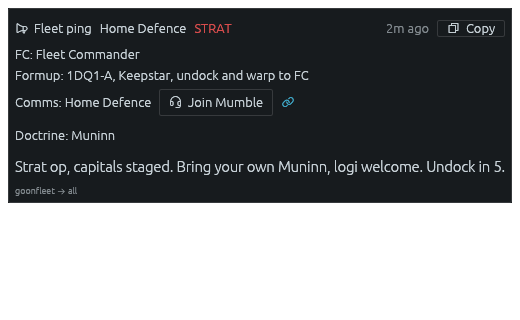
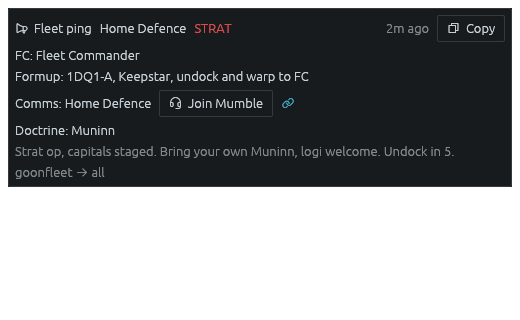
Revert the fleet ping description to its dimmer, smaller form
UI-003 made the fleet call body full brightness and a step larger, arguing an
urgent call should outrank its own metadata. That was wrong: the actionable
fields on a fleet card are FC, Formup, Comms and Doctrine, and the description
is context. Promoting it above them inverted the hierarchy rather than fixing
it.

The plain ping it was compared against has no metadata rows, so its body being
the strongest text there is correct. The two cards do not share an information
hierarchy, so the comparison was a false peer.

Back to render_ping_body(ui, description, true), the exact pre-UI-003 line. No
test asserted the brighter form; the suite stays at 476.

Changed region(s): [[0.0, 0.375, 0.9846, 0.6562], [0.0308, 0.2188, 0.6154, 0.375], [0.0308, 0.1562, 0.2769, 0.1875]]

diff --git a/app/src/app.rs b/app/src/app.rs
@@ -10342,11 +10342,12 @@ impl SpaiApp {
                 let band_color = [
                     egui::Color32::from_rgb(0x5A, 0xC8, 0x6A),
                     egui::Color32::from_rgb(0xE0, 0xA4, 0x3A),
+                    egui::Color32::from_rgb(0x4F, 0x9B, 0xD8),
                     egui::Color32::from_rgb(0xD8, 0x4C, 0x4C),
                 ];
                 if !schematic {
                     for (i, (name, ly)) in crate::map::JUMP_RANGES.iter().enumerate().rev() {
-                        let col = band_color.get(i).copied().unwrap_or(band_color[2]);
+                        let col = band_color.get(i).copied().unwrap_or(band_color[3]);
                         let r = crate::map::ly_to_pixels(*ly, &bounds, rect, self.map_zoom);
                         painter.circle_stroke(hp, r, egui::Stroke::new(1.5, col.gamma_multiply(0.85)));
                         painter.text(
@@ -10365,7 +10366,7 @@ impl SpaiApp {
                     }
                     let d = crate::map::ly_distance(real_h, &self.map_systems[i]);
                     if let Some(b) = crate::map::JUMP_RANGES.iter().position(|(_, ly)| d <= *ly) {
-                        let col = band_color.get(b).copied().unwrap_or(band_color[2]);
+                        let col = band_color.get(b).copied().unwrap_or(band_color[3]);
                         painter.circle_filled(pos[&s.id], dot + 4.0, col.gamma_multiply(0.70));
                     }
                 }
@@ -22072,14 +22073,7 @@ pub(crate) fn render_ping(
                     });
                 }
                 if !description.is_empty() {
-                    // The call text has to outrank the metadata labels above it, and the theme
-                    // paints `strong` in the same color as body text, so size is the only lever.
-                    ui.scope(|ui| {
-                        if let Some(f) = ui.style_mut().text_styles.get_mut(&egui::TextStyle::Body) {
-                            f.size += 1.5;
-                        }
-                        render_ping_body(ui, description, false);
-                    });
+                    render_ping_body(ui, description, true);
                 }
                 let from = source.as_deref().unwrap_or("?");
                 let to = target.as_deref().unwrap_or("?");

diff --git a/ui-tickets/UI-003-fleet-ping-body-contrast/review.md b/ui-tickets/UI-003-fleet-ping-body-contrast/review.md
@@ -103,3 +103,42 @@ normally, but a longer single-line description in a narrow window will now wrap 
 than before. Acceptable; noted in case a future ticket reports it.
 
 The ping card footer is still `.small()`, which is UI-008's scope, not this ticket's.
+
+---
+
+# Reverted by the user
+
+The user asked for the fleet description to go back to the darker, smaller form:
+`render_ping_body(ui, description, true)`, weak and with no size bump. Done, and it is the exact
+pre-UI-003 line, taken from `8931ab3^`.
+
+## Why the original reasoning was wrong
+
+This ticket argued that the fleet call body should outrank its metadata, because a fleet call is
+operationally urgent and a routine plain ping is not. The measurement behind it was real: the fleet
+body rendered at about 4.9:1 while the plain ping's rendered at about 11:1.
+
+What the reasoning missed is that **the fleet card's description is not the part a pilot acts on**.
+The actionable fields are FC, Formup, Comms and Doctrine, which are the metadata rows this change
+promoted the description above. The description is context. Making it the loudest thing on the card
+inverted the real hierarchy rather than fixing it, which is the opposite of what the ticket claimed.
+
+The plain ping comparison was also a false peer. A plain ping has no metadata rows at all, so its
+body IS its content and being the strongest text on that card is correct. Comparing the two bodies
+across card types looked like an inconsistency and was not one.
+
+## What stands
+
+No test asserted the brighter or larger form, so the full suite stayed green at 476 through the
+revert. The `weak` parameter on `render_ping_body` is used again, so UI-018's note that only `false`
+reached it from production code no longer holds.
+
+UI-013's doctrine-row fix and UI-018's body-row fix are untouched: those were about row height
+allocating 26px for 15px of ink, not about colour or size.
+
+## Lesson
+
+A contrast measurement can be correct and the conclusion drawn from it still wrong. This one
+compared two bodies and concluded the dimmer was a bug, without asking whether the two cards have
+the same information hierarchy. They do not. The person who reads these cards daily settled it in
+one sentence.

diff --git a/ui-tickets/UI-003-fleet-ping-body-contrast/ticket.md b/ui-tickets/UI-003-fleet-ping-body-contrast/ticket.md
@@ -3,7 +3,7 @@
 | | |
 |---|---|
 | **Severity** | Medium |
-| **Status** | Fixed, see `review.md` |
+| **Status** | **Reverted by the user**, see `review.md` |
 | **Region** | `render_ping` |
 | **Wave** | 1 |
 
